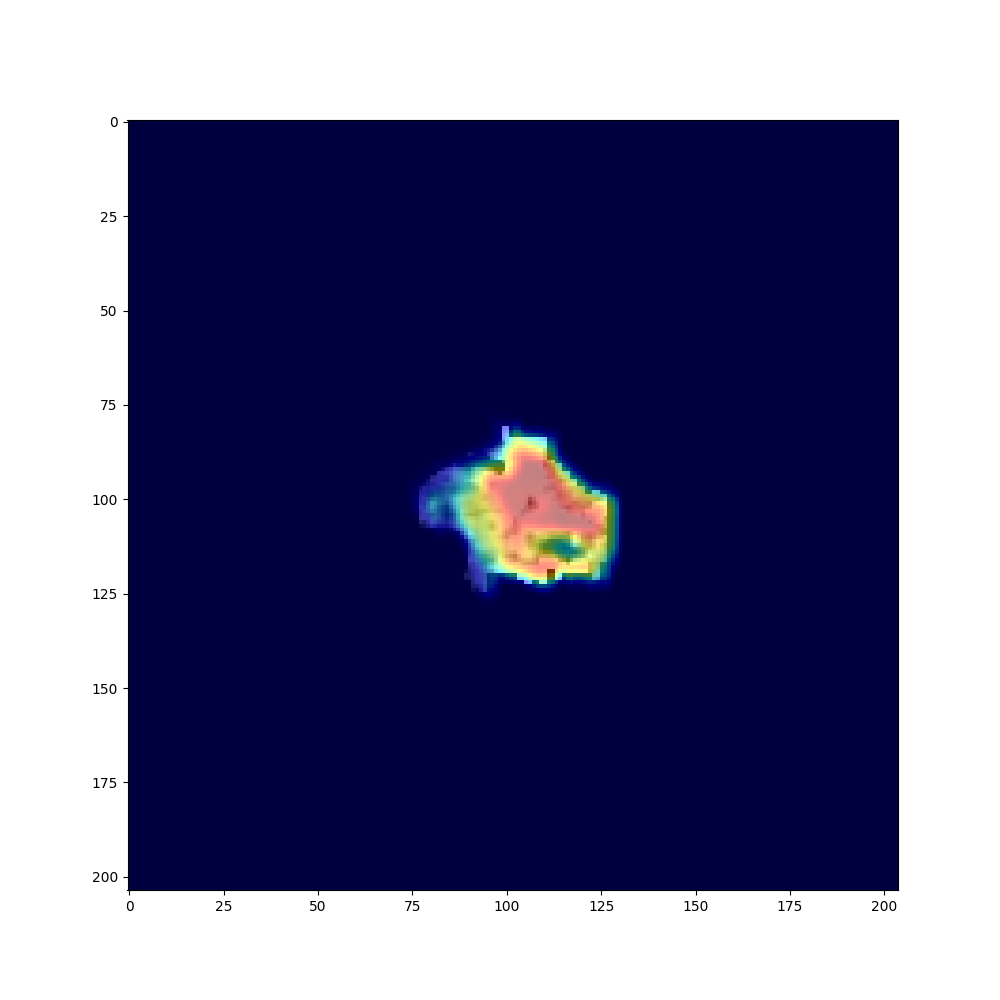
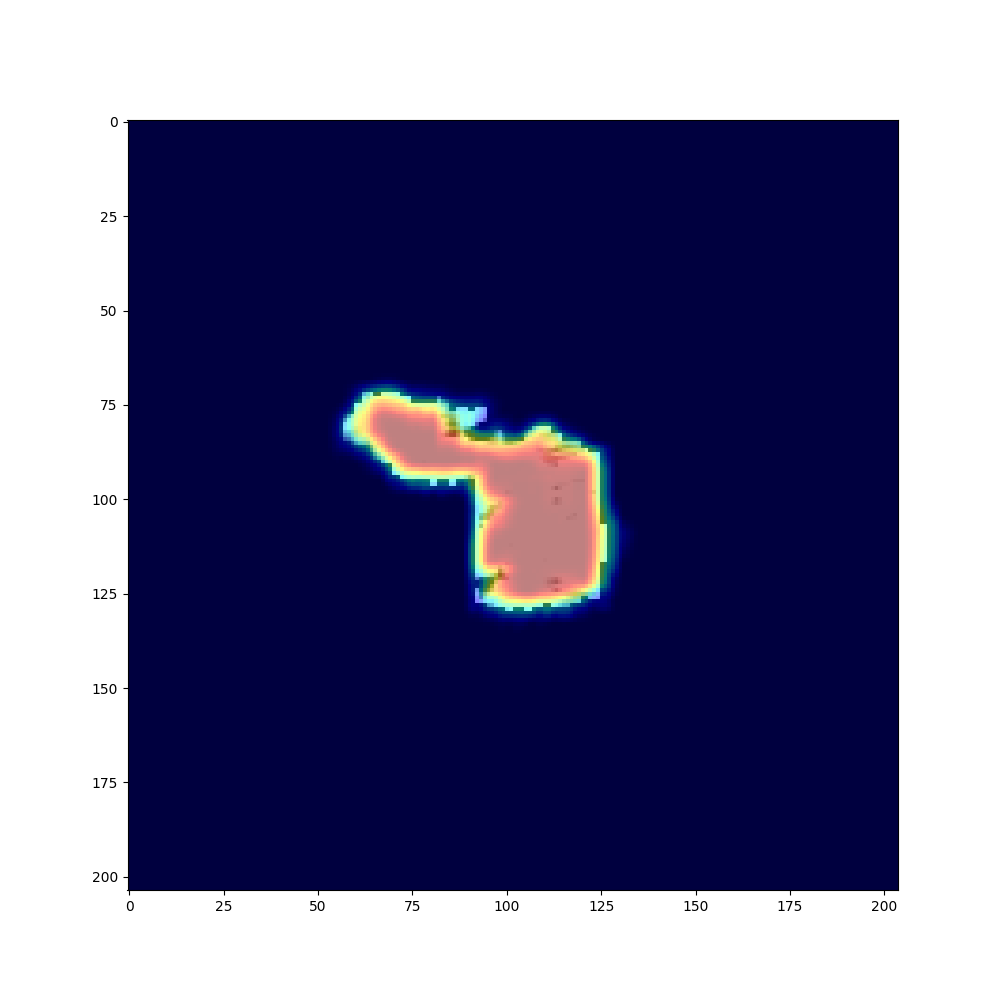
gradcam from 1st april

Changed region(s): [[0.31, 0.372, 0.651, 0.62]]

diff --git a/Network/Testing.py b/Network/Testing.py
@@ -192,7 +192,7 @@ else:
 # fig.savefig('./GradCAM_layer1.png')
 
 
-layer = 'layer4'
+layer = 'conv2'
 #print(layer)
 model = medcam.inject(model, output_dir="medcam_test", 
     save_maps=True, layer=layer, replace=True)
@@ -214,4 +214,4 @@ print(pid)
 print(attn.max(), attn.min())
 ax.imshow(im, cmap='gray')
 ax.imshow(attn, cmap='jet', alpha=0.5)
-fig.savefig('./GradCAM_layer4.png')
+fig.savefig('./GradCAM_conv2.png')
